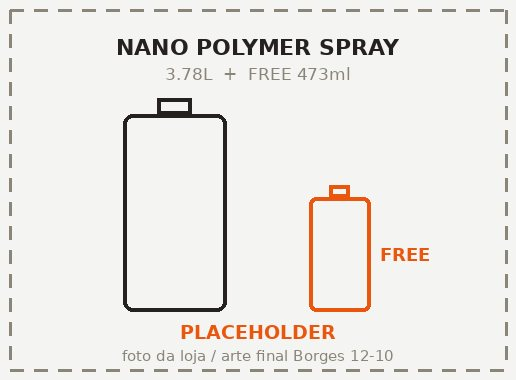
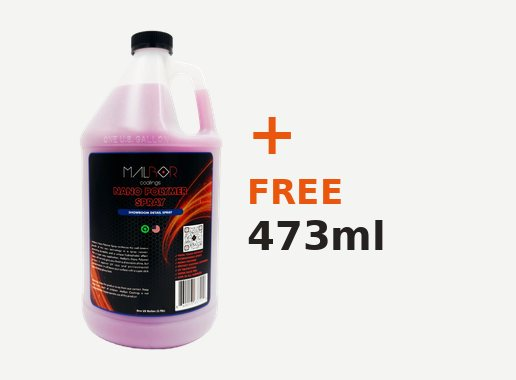
Use the real gallon photos in the Boat Show product plates
The four gallon shots arrived, so the fully synthetic placeholders are gone.
Each plate is now the real product photo plus a typographic "+ FREE 473ml" /
"+ FREE 946ml" lockup where the gift photo will go.

The photos carry genuine alpha, so they are flattened onto #f4f4f2 rather
than white — on white the plate would show a white rectangle inside the
card's grey image cell.

No "pending" wording is burned into the artwork: these plates are shippable
as they stand, and the outstanding work is tracked where it belongs. The
HTML comments now distinguish two levels, and check.mjs counts each:
PLACEHOLDER (the hero, 1 image) and ARTE PARCIAL (the four plates, real
gallon, gift photo still missing).

fetch-product-images.py is reduced to what is actually left: it pulls only
the free sizes from the store CDN and recomposites, reusing compose_plate so
both paths produce the same layout. Gallons are versioned in
assets/raw/products/.

Note for whoever reviews the art: the Hydro Coat gallon came in at 450x600
against 1500x2000 for the other three. It holds at the 120px display width
but is the first candidate for replacement.

Both pieces still pass check.mjs. Nothing created or scheduled in Mailchimp.

Claude-Session: https://claude.ai/code/session_01LpC1JrJaNL2z3myczJpTn7

diff --git a/email/boatshow-e1/index.html b/email/boatshow-e1/index.html
@@ -112,7 +112,7 @@ a{text-decoration:none}
             <table role="presentation" class="em-card" width="258" cellpadding="0" cellspacing="0" border="0" style="width:258px;max-width:258px;">
               <tr>
                 <td style="border:1px solid #cacaca;border-bottom:0;border-radius:16px 16px 0 0;background-color:#f4f4f2;font-size:0;line-height:0;">
-                  <!-- PLACEHOLDER: product-hydro-coat.jpg (516x380) - foto da loja / arte Borges 12/10 -->
+                  <!-- ARTE PARCIAL: product-hydro-coat.jpg (516x380) - galao real da loja + lockup tipografico; falta a foto do brinde (Borges 12/10) -->
                   <a href="https://bogo.malborcoatings.com/?utm_source=mailchimp&amp;utm_medium=email&amp;utm_campaign=boatshow_oct2026&amp;utm_content=malbor" target="_blank" style="text-decoration:none;">
                     <img src="https://ASSET-BASE-REPLACE-ME/product-hydro-coat.jpg" width="258" height="190" alt="Malbor Hydro Coat 3.78L with free 473ml" class="em-img-full" style="display:block;width:100%;max-width:258px;height:auto;border:0;border-radius:16px 16px 0 0;" />
                   </a>
@@ -155,7 +155,7 @@ a{text-decoration:none}
             <table role="presentation" class="em-card" width="258" cellpadding="0" cellspacing="0" border="0" style="width:258px;max-width:258px;">
               <tr>
                 <td style="border:1px solid #cacaca;border-bottom:0;border-radius:16px 16px 0 0;background-color:#f4f4f2;font-size:0;line-height:0;">
-                  <!-- PLACEHOLDER: product-nano-polymer-spray.jpg (516x380) - foto da loja / arte Borges 12/10 -->
+                  <!-- ARTE PARCIAL: product-nano-polymer-spray.jpg (516x380) - galao real da loja + lockup tipografico; falta a foto do brinde (Borges 12/10) -->
                   <a href="https://bogo.malborcoatings.com/?utm_source=mailchimp&amp;utm_medium=email&amp;utm_campaign=boatshow_oct2026&amp;utm_content=malbor" target="_blank" style="text-decoration:none;">
                     <img src="https://ASSET-BASE-REPLACE-ME/product-nano-polymer-spray.jpg" width="258" height="190" alt="Malbor Nano Polymer Spray 3.78L with free 473ml" class="em-img-full" style="display:block;width:100%;max-width:258px;height:auto;border:0;border-radius:16px 16px 0 0;" />
                   </a>
@@ -200,7 +200,7 @@ a{text-decoration:none}
             <table role="presentation" class="em-card" width="258" cellpadding="0" cellspacing="0" border="0" style="width:258px;max-width:258px;">
               <tr>
                 <td style="border:1px solid #cacaca;border-bottom:0;border-radius:16px 16px 0 0;background-color:#f4f4f2;font-size:0;line-height:0;">
-                  <!-- PLACEHOLDER: product-max-pro-shampoo.jpg (516x380) - foto da loja / arte Borges 12/10 -->
+                  <!-- ARTE PARCIAL: product-max-pro-shampoo.jpg (516x380) - galao real da loja + lockup tipografico; falta a foto do brinde (Borges 12/10) -->
                   <a href="https://bogo.malborcoatings.com/?utm_source=mailchimp&amp;utm_medium=email&amp;utm_campaign=boatshow_oct2026&amp;utm_content=malbor" target="_blank" style="text-decoration:none;">
                     <img src="https://ASSET-BASE-REPLACE-ME/product-max-pro-shampoo.jpg" width="258" height="190" alt="Malbor Max Pro Shampoo 3.78L with free 946ml" class="em-img-full" style="display:block;width:100%;max-width:258px;height:auto;border:0;border-radius:16px 16px 0 0;" />
                   </a>
@@ -243,7 +243,7 @@ a{text-decoration:none}
             <table role="presentation" class="em-card" width="258" cellpadding="0" cellspacing="0" border="0" style="width:258px;max-width:258px;">
               <tr>
                 <td style="border:1px solid #cacaca;border-bottom:0;border-radius:16px 16px 0 0;background-color:#f4f4f2;font-size:0;line-height:0;">
-                  <!-- PLACEHOLDER: product-deep-cleaning-apc.jpg (516x380) - foto da loja / arte Borges 12/10 -->
+                  <!-- ARTE PARCIAL: product-deep-cleaning-apc.jpg (516x380) - galao real da loja + lockup tipografico; falta a foto do brinde (Borges 12/10) -->
                   <a href="https://bogo.malborcoatings.com/?utm_source=mailchimp&amp;utm_medium=email&amp;utm_campaign=boatshow_oct2026&amp;utm_content=malbor" target="_blank" style="text-decoration:none;">
                     <img src="https://ASSET-BASE-REPLACE-ME/product-deep-cleaning-apc.jpg" width="258" height="190" alt="Malbor Deep Cleaning APC 3.78L with free 473ml" class="em-img-full" style="display:block;width:100%;max-width:258px;height:auto;border:0;border-radius:16px 16px 0 0;" />
                   </a>

diff --git a/email/boatshow-e2/index.html b/email/boatshow-e2/index.html
@@ -112,7 +112,7 @@ a{text-decoration:none}
             <table role="presentation" class="em-card" width="258" cellpadding="0" cellspacing="0" border="0" style="width:258px;max-width:258px;">
               <tr>
                 <td style="border:1px solid #cacaca;border-bottom:0;border-radius:16px 16px 0 0;background-color:#f4f4f2;font-size:0;line-height:0;">
-                  <!-- PLACEHOLDER: product-hydro-coat.jpg (516x380) - foto da loja / arte Borges 12/10 -->
+                  <!-- ARTE PARCIAL: product-hydro-coat.jpg (516x380) - galao real da loja + lockup tipografico; falta a foto do brinde (Borges 12/10) -->
                   <a href="https://bogo.malborcoatings.com/?utm_source=mailchimp&amp;utm_medium=email&amp;utm_campaign=boatshow_oct2026&amp;utm_content=malbor" target="_blank" style="text-decoration:none;">
                     <img src="https://ASSET-BASE-REPLACE-ME/product-hydro-coat.jpg" width="258" height="190" alt="Malbor Hydro Coat 3.78L with free 473ml" class="em-img-full" style="display:block;width:100%;max-width:258px;height:auto;border:0;border-radius:16px 16px 0 0;" />
                   </a>
@@ -140,7 +140,7 @@ a{text-decoration:none}
             <table role="presentation" class="em-card" width="258" cellpadding="0" cellspacing="0" border="0" style="width:258px;max-width:258px;">
               <tr>
                 <td style="border:1px solid #cacaca;border-bottom:0;border-radius:16px 16px 0 0;background-color:#f4f4f2;font-size:0;line-height:0;">
-                  <!-- PLACEHOLDER: product-nano-polymer-spray.jpg (516x380) - foto da loja / arte Borges 12/10 -->
+                  <!-- ARTE PARCIAL: product-nano-polymer-spray.jpg (516x380) - galao real da loja + lockup tipografico; falta a foto do brinde (Borges 12/10) -->
                   <a href="https://bogo.malborcoatings.com/?utm_source=mailchimp&amp;utm_medium=email&amp;utm_campaign=boatshow_oct2026&amp;utm_content=malbor" target="_blank" style="text-decoration:none;">
                     <img src="https://ASSET-BASE-REPLACE-ME/product-nano-polymer-spray.jpg" width="258" height="190" alt="Malbor Nano Polymer Spray 3.78L with free 473ml" class="em-img-full" style="display:block;width:100%;max-width:258px;height:auto;border:0;border-radius:16px 16px 0 0;" />
                   </a>
@@ -170,7 +170,7 @@ a{text-decoration:none}
             <table role="presentation" class="em-card" width="258" cellpadding="0" cellspacing="0" border="0" style="width:258px;max-width:258px;">
               <tr>
                 <td style="border:1px solid #cacaca;border-bottom:0;border-radius:16px 16px 0 0;background-color:#f4f4f2;font-size:0;line-height:0;">
-                  <!-- PLACEHOLDER: product-max-pro-shampoo.jpg (516x380) - foto da loja / arte Borges 12/10 -->
+                  <!-- ARTE PARCIAL: product-max-pro-shampoo.jpg (516x380) - galao real da loja + lockup tipografico; falta a foto do brinde (Borges 12/10) -->
                   <a href="https://bogo.malborcoatings.com/?utm_source=mailchimp&amp;utm_medium=email&amp;utm_campaign=boatshow_oct2026&amp;utm_content=malbor" target="_blank" style="text-decoration:none;">
                     <img src="https://ASSET-BASE-REPLACE-ME/product-max-pro-shampoo.jpg" width="258" height="190" alt="Malbor Max Pro Shampoo 3.78L with free 946ml" class="em-img-full" style="display:block;width:100%;max-width:258px;height:auto;border:0;border-radius:16px 16px 0 0;" />
                   </a>
@@ -198,7 +198,7 @@ a{text-decoration:none}
             <table role="presentation" class="em-card" width="258" cellpadding="0" cellspacing="0" border="0" style="width:258px;max-width:258px;">
               <tr>
                 <td style="border:1px solid #cacaca;border-bottom:0;border-radius:16px 16px 0 0;background-color:#f4f4f2;font-size:0;line-height:0;">
-                  <!-- PLACEHOLDER: product-deep-cleaning-apc.jpg (516x380) - foto da loja / arte Borges 12/10 -->
+                  <!-- ARTE PARCIAL: product-deep-cleaning-apc.jpg (516x380) - galao real da loja + lockup tipografico; falta a foto do brinde (Borges 12/10) -->
                   <a href="https://bogo.malborcoatings.com/?utm_source=mailchimp&amp;utm_medium=email&amp;utm_campaign=boatshow_oct2026&amp;utm_content=malbor" target="_blank" style="text-decoration:none;">
                     <img src="https://ASSET-BASE-REPLACE-ME/product-deep-cleaning-apc.jpg" width="258" height="190" alt="Malbor Deep Cleaning APC 3.78L with free 473ml" class="em-img-full" style="display:block;width:100%;max-width:258px;height:auto;border:0;border-radius:16px 16px 0 0;" />
                   </a>

diff --git a/build/make-boatshow-assets.py b/build/make-boatshow-assets.py
@@ -28,11 +28,14 @@ OUTS = [Path("email/boatshow-e1/assets"), Path("email/boatshow-e2/assets")]
 
 # Offer line-up. value = retail price of the free size, from the live store.
 PRODUCTS = [
-    ("product-hydro-coat", "HYDRO COAT", "3.78L", "473ml"),
-    ("product-nano-polymer-spray", "NANO POLYMER SPRAY", "3.78L", "473ml"),
-    ("product-max-pro-shampoo", "MAX PRO SHAMPOO", "3.78L", "946ml"),
-    ("product-deep-cleaning-apc", "DEEP CLEANING APC", "3.78L", "473ml"),
+    ("product-hydro-coat", "HYDRO COAT", "3.78L", "473ml", "hydro-coat-gallon.webp"),
+    ("product-nano-polymer-spray", "NANO POLYMER SPRAY", "3.78L", "473ml", "nano-polymer-spray-gallon.webp"),
+    ("product-max-pro-shampoo", "MAX PRO SHAMPOO", "3.78L", "946ml", "max-pro-shampoo-gallon.webp"),
+    ("product-deep-cleaning-apc", "DEEP CLEANING APC", "3.78L", "473ml", "deep-cleaning-apc-gallon.webp"),
 ]
+
+GALLONS = RAW / "products"
+CARD = (258 * X2, 190 * X2)
 
 # Live store photo URLs, verified against the Shopify catalogue on 7 Oct 2026.
 STORE_PHOTOS = {
@@ -66,40 +69,57 @@ def cover(im, size):
     return im.crop((l, t, l + tw, t + th))
 
 
-def placeholder_product(name, gallon, small, size):
-    """A plate that cannot be mistaken for finished art."""
-    w, h = size
-    im = Image.new("RGB", (w, h), PLATE)
-    d = ImageDraw.Draw(im)
-    # dashed frame
-    step, dash = 24, 13
-    for x in range(10, w - 10, step):
-        d.line([(x, 10), (min(x + dash, w - 10), 10)], fill=MUTED, width=3)
-        d.line([(x, h - 10), (min(x + dash, w - 10), h - 10)], fill=MUTED, width=3)
-    for y in range(10, h - 10, step):
-        d.line([(10, y), (10, min(y + dash, h - 10))], fill=MUTED, width=3)
-        d.line([(w - 10, y), (w - 10, min(y + dash, h - 10))], fill=MUTED, width=3)
-    # two bottle silhouettes: the gallon and the free small size
-    gw, gh = int(w * 0.20), int(h * 0.52)
-    gx, gy = int(w * 0.24), int(h * 0.30)
-    d.rounded_rectangle([gx, gy, gx + gw, gy + gh], radius=10, outline=INK, width=4)
-    d.rectangle([gx + gw // 3, gy - 16, gx + 2 * gw // 3, gy], outline=INK, width=4)
-    sw_, sh_ = int(w * 0.12), int(h * 0.30)
-    sx, sy = int(w * 0.60), gy + gh - sh_
-    d.rounded_rectangle([sx, sy, sx + sw_, sy + sh_], radius=7, outline=ORANGE, width=4)
-    d.rectangle([sx + sw_ // 3, sy - 12, sx + 2 * sw_ // 3, sy], outline=ORANGE, width=4)
-    d.text((sx + sw_ + 10, sy + sh_ // 2 - 10), "FREE", font=ImageFont.truetype(BOLD, 18), fill=ORANGE)
+def trim(im):
+    bb = im.getbbox()
+    return im.crop(bb) if bb else im
 
-    def centred(text, y, font, fill):
-        f = ImageFont.truetype(*font)
-        tw = d.textbbox((0, 0), text, font=f)[2]
-        d.text(((w - tw) // 2, y), text, font=f, fill=fill)
 
-    centred(name, int(h * 0.09), (BOLD, 22), INK)
-    centred(f"{gallon}  +  FREE {small}", int(h * 0.17), (REG, 17), MUTED)
-    centred("PLACEHOLDER", int(h * 0.845), (BOLD, 19), ORANGE)
-    centred("foto da loja / arte final Borges 12-10", int(h * 0.915), (REG, 15), MUTED)
-    return im
+def compose_plate(gallon, small, free_size, size=None):
+    """The product plate: the real gallon, plus the free size beside it.
+
+    `small` is the photo of the free size when we have one; until then it is
+    None and we set a typographic lockup in its place rather than inventing
+    product art.
+    """
+    w, h = size or CARD
+    plate = Image.new("RGBA", (w, h), PLATE)
+    pad = 30
+    gh = h - 2 * pad
+    gallon = trim(gallon.convert("RGBA"))
+    gw = round(gallon.width * gh / gallon.height)
+    gallon = gallon.resize((gw, gh), Image.LANCZOS)
+
+    d = ImageDraw.Draw(plate)
+    if small is not None:
+        small = trim(small.convert("RGBA"))
+        sh = round(gh * 0.62)
+        sw = round(small.width * sh / small.height)
+        total = gw + 18 + sw
+        x = (w - total) // 2
+        plate.alpha_composite(gallon, (x, pad))
+        plate.alpha_composite(small, (x + gw + 18, pad + gh - sh))
+        f = ImageFont.truetype(BOLD, 20)
+        label = f"FREE {free_size}"
+        tw = d.textbbox((0, 0), label, font=f)[2]
+        d.text((x + gw + 18 + (sw - tw) // 2, pad + gh - sh - 28), label, font=f, fill=ORANGE)
+    else:
+        # no photo of the free size yet -> typographic lockup, never fake art
+        block_w = 190
+        total = gw + 24 + block_w
+        x = max(pad, (w - total) // 2)
+        plate.alpha_composite(gallon, (x, pad))
+        bx = x + gw + 24
+        cy = h // 2
+        fp = ImageFont.truetype(BOLD, 60)
+        ff = ImageFont.truetype(BOLD, 34)
+        fs = ImageFont.truetype(BOLD, 40)
+        d.text((bx, cy - 92), "+", font=fp, fill=ORANGE)
+        d.text((bx, cy - 18), "FREE", font=ff, fill=ORANGE)
+        d.text((bx, cy + 22), free_size, font=fs, fill=INK)
+        # No "pending" wording is burned into the plate: this lockup is
+        # ship-ready on its own. The outstanding gift photo is tracked by the
+        # ARTE PARCIAL comment in the HTML and by check.mjs.
+    return flatten(plate, PLATE)
 
 
 def write(im, name, display, jpeg=True, targets=None):
@@ -127,9 +147,9 @@ def main():
     car = Image.open(RAW / "2268ffca474745f43f019408011a6fedd8610aec.png").convert("RGBA")
     write(flatten(cover(car, (226 * X2, 151 * X2)), PLATE), "auto-block", "226x151", targets=OUTS[:1])  # E1 only
 
-    print("product plates (ALL PLACEHOLDERS):")
-    for slug, name, gallon, small in PRODUCTS:
-        write(placeholder_product(name, gallon, small, (258 * X2, 190 * X2)), slug, "258x190")
+    print("product plates (galao real da loja; foto do brinde pendente):")
+    for slug, name, gallon, small, art in PRODUCTS:
+        write(compose_plate(Image.open(GALLONS / art), None, small), slug, "258x190")
 
 
 if __name__ == "__main__":

diff --git a/build/fetch-product-images.py b/build/fetch-product-images.py
@@ -1,64 +1,46 @@
 #!/usr/bin/env python3
-"""Replace the Boat Show product placeholders with the real store photos.
+"""Drop the free-size photo into the Boat Show product plates.
 
-Run this from any machine that can reach cdn.shopify.com (this session's egress
-policy blocks it). It downloads the gallon and the free small size for each
-product, composites them onto the same #f4f4f2 plate at the exact size the HTML
-expects, and overwrites the placeholder in both e1/ and e2/ asset folders.
+The gallons are already real: they live in assets/raw/products/ and the build
+composites them with a typographic "+ FREE <size>" lockup. What is still
+missing is the photo of the free size (473ml / 946ml). Those live on
+cdn.shopify.com, which this session's egress policy blocks.
+
+Run this from any machine that can reach the CDN:
 
     python3 build/fetch-product-images.py
 
-Nothing in the HTML changes — the filenames and dimensions are identical.
-If Borges's final art arrives first, just drop his files over the same names.
+It fetches only the small sizes, rebuilds each plate as gallon + free size at
+the exact dimensions the HTML already expects, and overwrites the files in both
+e1/ and e2/. No markup changes. If Borges's final art arrives first, just drop
+his files over the same names instead of running this.
 """
+import importlib.util
 import io
 import urllib.request
 from pathlib import Path
 from PIL import Image
 
-import sys
-
-# single source of truth for the URLs and the output folders; importing is safe
-# because that module keeps its generation behind a __main__ guard
-sys.path.insert(0, str(Path(__file__).parent))
-import importlib.util
+# make-boatshow-assets.py keeps its generation behind a __main__ guard, so
+# importing it only gives us the URL table, the product list and compose_plate
 spec = importlib.util.spec_from_file_location("mba", Path(__file__).with_name("make-boatshow-assets.py"))
 mba = importlib.util.module_from_spec(spec)
 spec.loader.exec_module(mba)
-
-PLATE = "#f4f4f2"
-W, H = 258 * 2, 190 * 2
-PAD = 24
 
 
 def fetch(url):
     req = urllib.request.Request(url, headers={"User-Agent": "malbor-email-build"})
     with urllib.request.urlopen(req, timeout=30) as r:
-        return Image.open(io.BytesIO(r.read())).convert("RGBA")
+        return Image.open(io.BytesIO(r.read()))
 
 
-def compose(gallon, small):
-    """Gallon on the left at full height, the free small size beside it, baselines aligned."""
-    plate = Image.new("RGBA", (W, H), PLATE)
-    gh = H - 2 * PAD
-    gw = round(gallon.width * gh / gallon.height)
-    gallon = gallon.resize((gw, gh), Image.LANCZOS)
-    sh = round(gh * 0.60)
-    sw = round(small.width * sh / small.height)
-    small = small.resize((sw, sh), Image.LANCZOS)
-    total = gw + 16 + sw
-    x = (W - total) // 2
-    base = PAD + gh
-    plate.alpha_composite(gallon, (x, base - gh))
-    plate.alpha_composite(small, (x + gw + 16, base - sh))
-    out = Image.new("RGBA", (W, H), PLATE)
-    out.alpha_composite(plate)
-    return out.convert("RGB")
-
-
-for slug, (gal_url, small_url) in mba.STORE_PHOTOS.items():
-    img = compose(fetch(gal_url), fetch(small_url))
+for slug, name, gallon_size, free_size, art in mba.PRODUCTS:
+    small_url = mba.STORE_PHOTOS[slug][1]
+    plate = mba.compose_plate(Image.open(mba.GALLONS / art), fetch(small_url), free_size)
     for out in mba.OUTS:
-        img.save(out / f"{slug}.jpg", quality=84, optimize=True, progressive=True)
-    print(f"  {slug}.jpg  {img.size}  <- loja")
-print("pronto — rode check.mjs e build-zip.sh nas duas pecas")
+        plate.save(out / f"{slug}.jpg", quality=84, optimize=True, progressive=True)
+    print(f"  {slug}.jpg  galao local + brinde da loja")
+
+print("\npronto. Agora:")
+print("  1. troque ARTE PARCIAL por um comentario normal em build/make-boatshow-html.py")
+print("  2. rode check.mjs e build-zip.sh nas duas pecas")

diff --git a/build/make-boatshow-html.py b/build/make-boatshow-html.py
@@ -152,7 +152,7 @@ def card(slug, name, price, small, value, desc, full):
     return f"""            <table role="presentation" class="em-card" width="258" cellpadding="0" cellspacing="0" border="0" style="width:258px;max-width:258px;">
               <tr>
                 <td style="border:1px solid #cacaca;border-bottom:0;border-radius:16px 16px 0 0;background-color:#f4f4f2;font-size:0;line-height:0;">
-                  <!-- PLACEHOLDER: {slug}.jpg (516x380) - foto da loja / arte Borges 12/10 -->
+                  <!-- ARTE PARCIAL: {slug}.jpg (516x380) - galao real da loja + lockup tipografico; falta a foto do brinde (Borges 12/10) -->
                   <a href="{LP}" target="_blank" style="text-decoration:none;">
                     <img src="{A}/{slug}.jpg" width="258" height="190" alt="Malbor {name} 3.78L with free {small}" class="em-img-full" style="display:block;width:100%;max-width:258px;height:auto;border:0;border-radius:16px 16px 0 0;" />
                   </a>

diff --git a/build/make-boatshow-check.py b/build/make-boatshow-check.py
@@ -159,7 +159,9 @@ console.log("\n14) ARTE PENDENTE");
 const ph = (html.match(/ASSET-BASE-REPLACE-ME/g) || []).length;
 ph ? wrn(`${ph} ocorrencias de ASSET-BASE-REPLACE-ME (build-zip.sh troca por images/)`) : ok("sem placeholders de asset base");
 const art = (html.match(/PLACEHOLDER:/g) || []).length;
-art ? wrn(`${art} imagem(ns) ainda com arte placeholder — trocar pelas fotos da loja / arte do Borges (12/10)`) : ok("nenhuma arte placeholder");
+art ? wrn(`${art} imagem(ns) 100%% placeholder — trocar pela arte do Borges (12/10)`) : ok("nenhuma arte totalmente placeholder");
+const partial = (html.match(/ARTE PARCIAL:/g) || []).length;
+partial ? wrn(`${partial} imagem(ns) com arte parcial — galao real, falta a foto do brinde`) : ok("nenhuma arte parcial");
 
 await b.close();
 console.log("\n" + "=".repeat(60));

diff --git a/email/boatshow-e2/README.md b/email/boatshow-e2/README.md
@@ -49,25 +49,33 @@ Perfect Glass e Max Shield ficam fora — o `check.mjs` falha se forem citados.
 
 ## Arte pendente
 
-Cinco imagens são **placeholders** e estão marcadas no HTML com comentário
-`<!-- PLACEHOLDER: ... -->`; o `check.mjs` conta e avisa quantas restam.
+Dois níveis, ambos marcados no HTML e contados pelo `check.mjs`:
 
-- `hero-boatshow.jpg` (1200x540) — abertura marine, emprestada da peça náutica
-- `product-*.jpg` (516x380, 4 arquivos) — galão + embalagem pequena
+- `<!-- PLACEHOLDER: -->` — **1 imagem**, `hero-boatshow.jpg` (1200x540):
+  abertura marine emprestada da peça náutica, aguardando o Borges.
+- `<!-- ARTE PARCIAL: -->` — **4 imagens**, `product-*.jpg` (516x380): o galão
+  é a foto real da loja; no lugar da foto do brinde há um lockup tipográfico
+  `+ FREE 473ml` / `+ FREE 946ml`. É uma arte vendável como está — não há
+  nenhum aviso de pendência gravado na imagem.
 
 E2 não tem o bloco automotivo, então não usa `auto-block.jpg`.
 
-As fotos da loja existem e estão mapeadas em `build/make-boatshow-assets.py`
-(`STORE_PHOTOS`), mas `cdn.shopify.com` está bloqueado pela política de rede
-desta sessão. De uma máquina com acesso:
+Os galões ficam versionados em `assets/raw/products/`. As fotos dos brindes
+estão mapeadas em `build/make-boatshow-assets.py` (`STORE_PHOTOS`), mas
+`cdn.shopify.com` está bloqueado pela política de rede desta sessão. De uma
+máquina com acesso:
 
 ```bash
-python3 build/fetch-product-images.py   # baixa e compõe as 4 imagens de produto
+python3 build/fetch-product-images.py   # baixa só os brindes e recompõe as 4 placas
 ```
 
 Isso sobrescreve só os `product-*.jpg`, nas duas peças, com os mesmos nomes e
 dimensões — **nenhuma mudança no HTML**. Quando a arte final do Borges chegar
 (seg 12/10), basta gravar os arquivos por cima dos mesmos nomes.
+
+O galão do Hydro Coat veio em 450x600, contra 1500x2000 dos outros três. No
+tamanho de exibição (120px de largura) segura bem, mas é o candidato número um
+a ser substituído se o Borges tiver uma versão maior.
 
 ## Links
 

diff --git a/email/boatshow-e1/README.md b/email/boatshow-e1/README.md
@@ -42,23 +42,31 @@ Perfect Glass e Max Shield ficam fora — o `check.mjs` falha se forem citados.
 
 ## Arte pendente
 
-Cinco imagens são **placeholders** e estão marcadas no HTML com comentário
-`<!-- PLACEHOLDER: ... -->`; o `check.mjs` conta e avisa quantas restam.
+Dois níveis, ambos marcados no HTML e contados pelo `check.mjs`:
 
-- `hero-boatshow.jpg` (1200x540) — abertura marine, emprestada da peça náutica
-- `product-*.jpg` (516x380, 4 arquivos) — galão + embalagem pequena
+- `<!-- PLACEHOLDER: -->` — **1 imagem**, `hero-boatshow.jpg` (1200x540):
+  abertura marine emprestada da peça náutica, aguardando o Borges.
+- `<!-- ARTE PARCIAL: -->` — **4 imagens**, `product-*.jpg` (516x380): o galão
+  é a foto real da loja; no lugar da foto do brinde há um lockup tipográfico
+  `+ FREE 473ml` / `+ FREE 946ml`. É uma arte vendável como está — não há
+  nenhum aviso de pendência gravado na imagem.
 
-As fotos da loja existem e estão mapeadas em `build/make-boatshow-assets.py`
-(`STORE_PHOTOS`), mas `cdn.shopify.com` está bloqueado pela política de rede
-desta sessão. De uma máquina com acesso:
+Os galões ficam versionados em `assets/raw/products/`. As fotos dos brindes
+estão mapeadas em `build/make-boatshow-assets.py` (`STORE_PHOTOS`), mas
+`cdn.shopify.com` está bloqueado pela política de rede desta sessão. De uma
+máquina com acesso:
 
 ```bash
-python3 build/fetch-product-images.py   # baixa e compõe as 4 imagens de produto
+python3 build/fetch-product-images.py   # baixa só os brindes e recompõe as 4 placas
 ```
 
 Isso sobrescreve só os `product-*.jpg`, nas duas peças, com os mesmos nomes e
 dimensões — **nenhuma mudança no HTML**. Quando a arte final do Borges chegar
 (seg 12/10), basta gravar os arquivos por cima dos mesmos nomes.
+
+O galão do Hydro Coat veio em 450x600, contra 1500x2000 dos outros três. No
+tamanho de exibição (120px de largura) segura bem, mas é o candidato número um
+a ser substituído se o Borges tiver uma versão maior.
 
 ## Links
 
